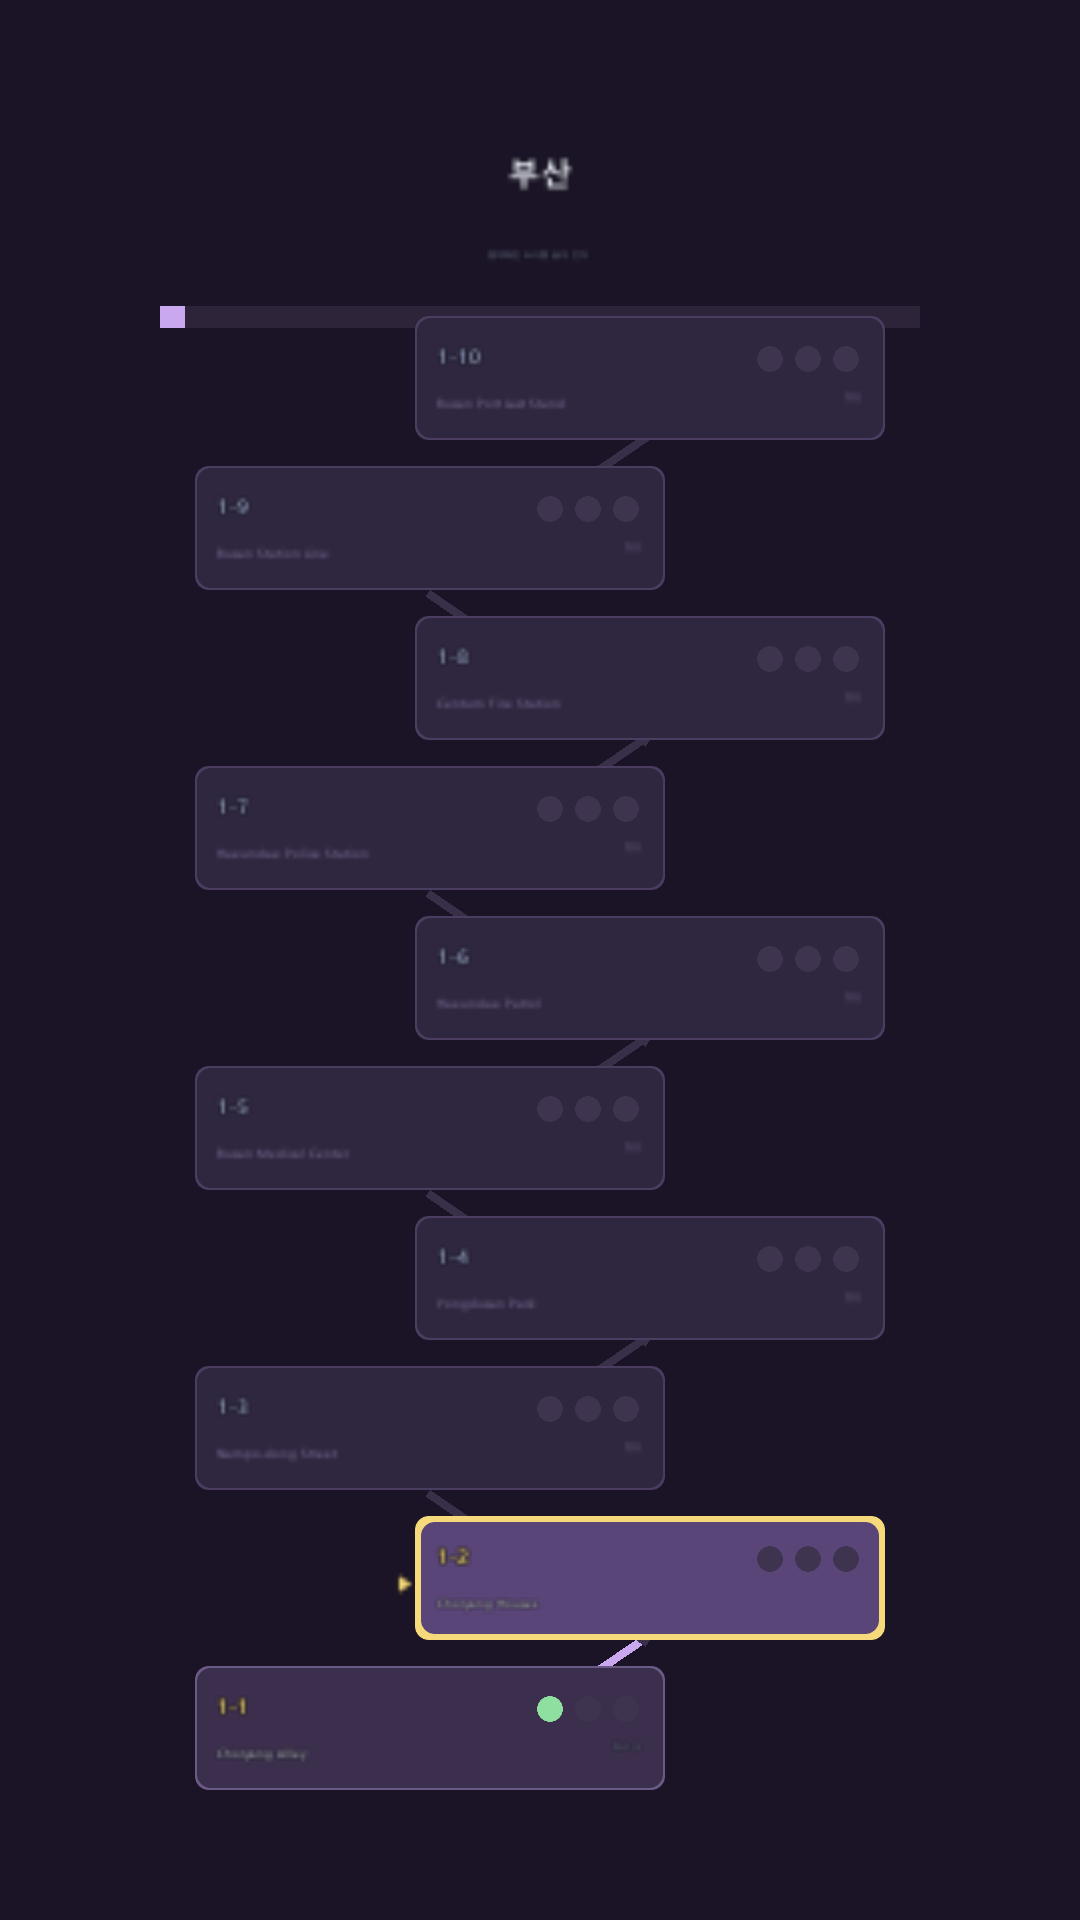
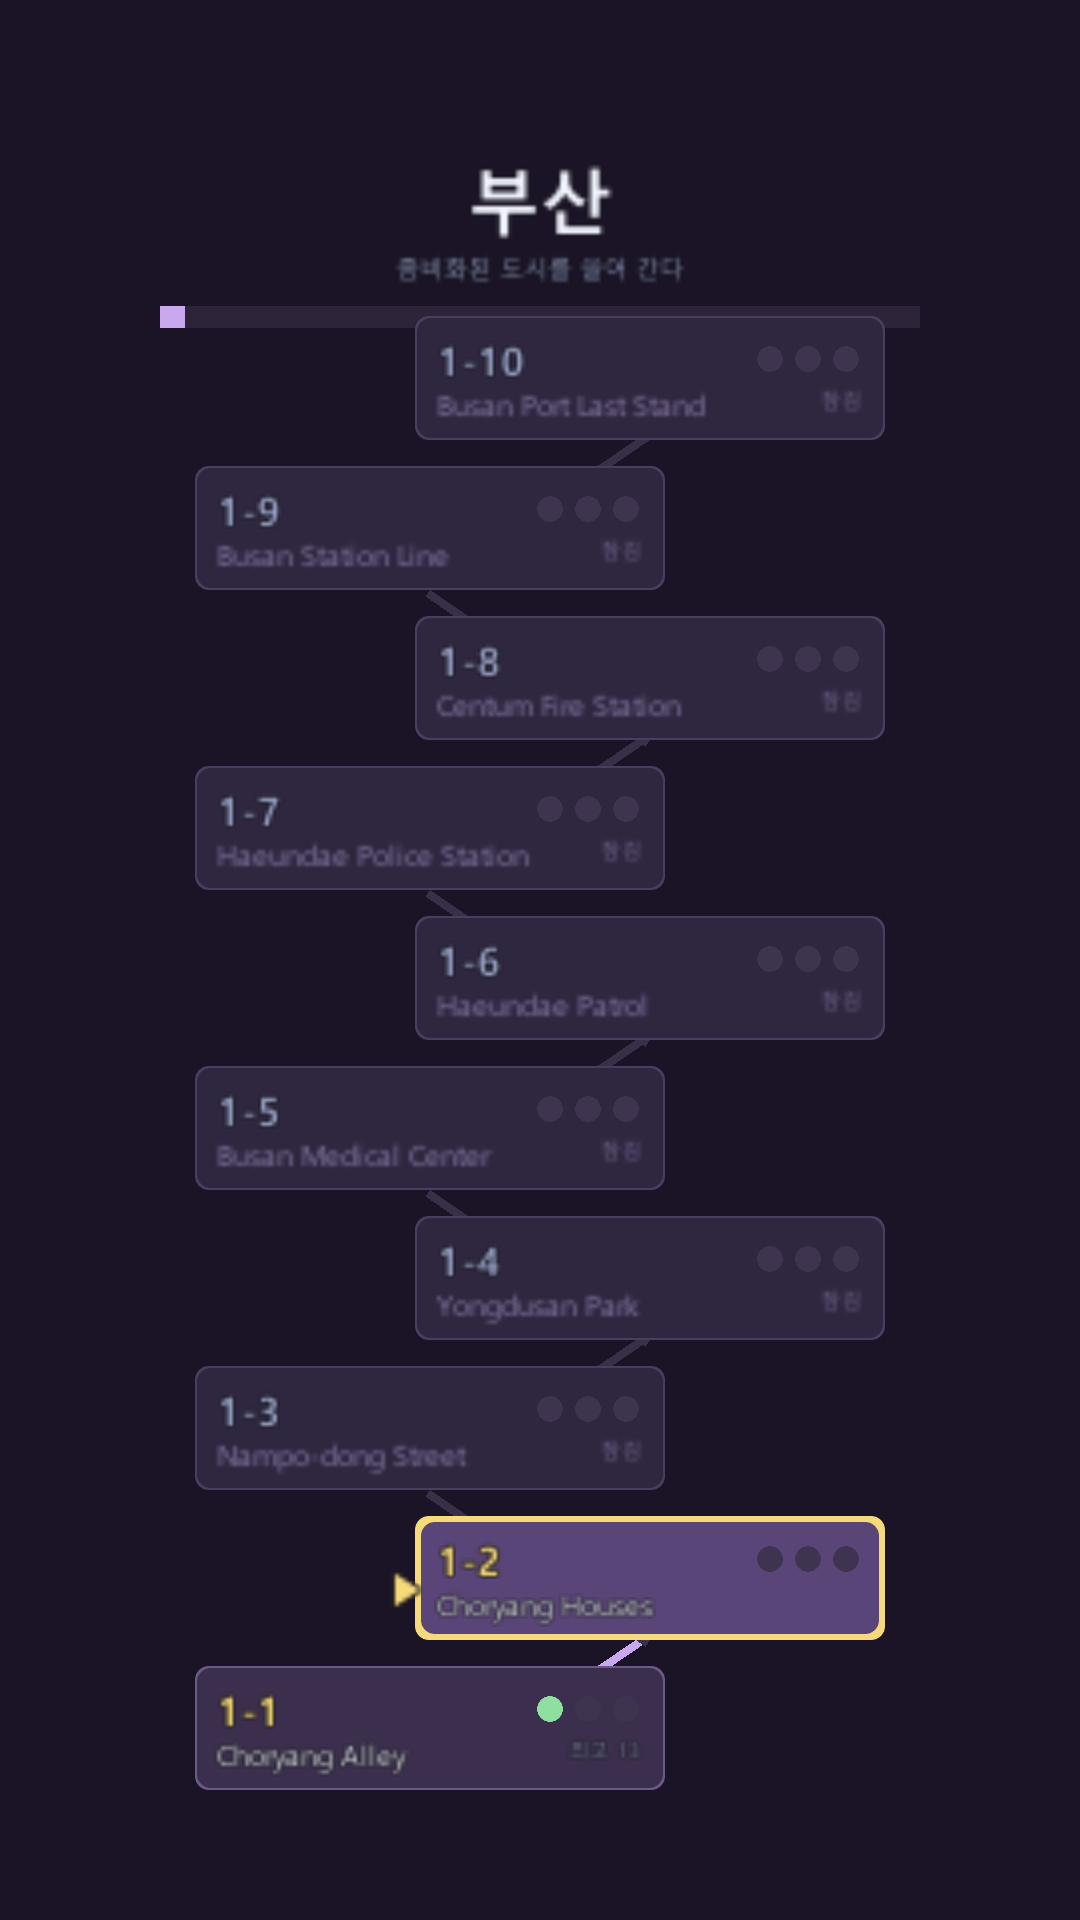
fix(view): the road was white because the colour never reached it
First look at the gameplay screen: the road, gates, wall, zones and
divider were all blank white, washing out the whole frame. The material
was built on `Mobile/Diffuse`, which has no `_Color` property, so
`material.color = c` did nothing at all. Switched to a shader that has
one, and the code now says so loudly if a future shader does not.

With colours applied the road came out pale cyan instead of olive,
because ambient lighting defaults to sampling a skybox. The scene is
built in code and has no sky, so the engine's default one was lighting
and tinting everything. Ambient is flat and explicit now, which is what a
code-built scene needs if the colour given is to be the colour seen.

Gates behind the crowd stay drawn, and as the camera passes them their
world-space labels swell and collide — two of them covered the bottom of
the frame. They hide once passed; the only control in this game is the
next gate, so the ones behind are clutter either way.

The gameplay shot itself is new, and it goes through the 3D camera with
the UI excluded rather than the canvas path the meta screens use.

Also adds the gameplay screen to the set, so what exists now is: world
map, stage card, result won, and the game. All five come out of one run.

diff --git a/Assets/Tests/PlayMode/MetaShotTests.cs b/Assets/Tests/PlayMode/MetaShotTests.cs
@@ -2,6 +2,7 @@ using System.Collections;
 using System.IO;
 using CrowdRunner;
 using CrowdRunner.Core;
+using CrowdRunner.Game;
 using CrowdRunner.Meta;
 using NUnit.Framework;
 using UnityEngine;
@@ -129,6 +130,70 @@ namespace CrowdRunner.Tests
             Debug.Log("[CR-TEST] 결과 화면 화소 — 이김 " + won.ToString("F1") + "% · 짐 " + lost.ToString("F1") + "%");
             Assert.Greater(won, 3f, "이긴 결과 화면이 거의 비었다");
             Assert.Greater(lost, 3f, "진 결과 화면이 거의 비었다");
+        }
+
+        /// <summary>
+        /// **게임 화면을 찍는다** — 군중·길·게이트·적. UI 가 아니라 3D 카메라를 뜬다.
+        ///
+        /// 메타 화면과 경로가 다르다: 오버레이 캔버스를 카메라에 물릴 필요가 없고, 대신 **UI 를
+        /// 빼야** 한다 (게임이 어떻게 생겼는지 보려는 그림이라 HUD 가 덮으면 안 된다).
+        ///
+        /// 판을 조금 돌린 뒤에 찍는다 — 0 프레임에서는 군중이 한 점에 모여 있고 게이트가 멀어서
+        /// **아무것도 안 보인다.** 첫 게이트를 지난 뒤가 이 장르의 그림이다.
+        /// </summary>
+        [UnityTest, Timeout(300000)]
+        public IEnumerator Shoots_The_Gameplay_Screen()
+        {
+            var lv = LevelCatalog.Find("1-3");
+            Assert.IsNotNull(lv);
+            flow.StartLevel(lv);
+            float prev = Time.timeScale;
+            Time.timeScale = 100f;
+            var runner = GameBoot.Runner;
+            // 첫 게이트를 지나 군단이 커진 뒤 — 그때가 이 게임이 어떻게 생겼는지 보이는 자리다
+            for (int i = 0; i < 30000 && runner.Sim != null && runner.Sim.Units <= lv.initialUnits; i++)
+                yield return null;
+            for (int i = 0; i < 60; i++) yield return null;
+            Time.timeScale = prev;
+
+            float share = ShotWorld("game", runner);
+            Debug.Log($"[CR-TEST] 게임 화면: 병력 {runner.Sim.Units} z {runner.Sim.Z:F0} · 그려진 화소 {share:F1}%");
+            Assert.Greater(runner.Sim.Units, lv.initialUnits, "게이트를 지나지 않았다 — 군단이 안 커졌다");
+            Assert.Greater(share, 3f, "게임 화면이 거의 비었다 — 군중이 안 그려지는지 보라");
+        }
+
+        /// <summary>3D 카메라를 뜬다. UI 는 뺀다 (HUD 가 덮으면 게임이 안 보인다)</summary>
+        float ShotWorld(string name, LevelRunner runner)
+        {
+            var cam = Camera.main;
+            Assert.IsNotNull(cam, "카메라가 없다 — LevelView 가 안 섰다");
+            var rt = new RenderTexture(W, H, 24, RenderTextureFormat.ARGB32);
+            var prevTarget = cam.targetTexture;
+            int prevMask = cam.cullingMask;
+            cam.targetTexture = rt;
+            cam.cullingMask = ~(1 << 5);        // UI 빼고 전부
+            cam.Render();
+
+            var tex = new Texture2D(W, H, TextureFormat.RGB24, false);
+            var prevRt = RenderTexture.active;
+            RenderTexture.active = rt;
+            tex.ReadPixels(new Rect(0, 0, W, H), 0, 0);
+            tex.Apply(false);
+            RenderTexture.active = prevRt;
+
+            var px = tex.GetPixels32();
+            var bg = (Color32)cam.backgroundColor;
+            int lit = 0;
+            for (int i = 0; i < px.Length; i += 7)
+                if (Mathf.Abs(px[i].r - bg.r) + Mathf.Abs(px[i].g - bg.g) + Mathf.Abs(px[i].b - bg.b) > 24) lit++;
+            File.WriteAllBytes(Path.Combine(Dir, name + ".png"), tex.EncodeToPNG());
+
+            cam.targetTexture = prevTarget;
+            cam.cullingMask = prevMask;
+            Object.DestroyImmediate(tex);
+            rt.Release();
+            Object.DestroyImmediate(rt);
+            return lit / (px.Length / 7f) * 100f;
         }
 
         IEnumerator PlayUntilResult(string code, SimState want)

diff --git a/Assets/_Game/Scripts/Game/LevelView.cs b/Assets/_Game/Scripts/Game/LevelView.cs
@@ -74,9 +74,16 @@ namespace CrowdRunner.View
             cam.clearFlags = CameraClearFlags.SolidColor;
             cam.backgroundColor = new Color(0.62f, 0.72f, 0.80f);
 
+            // **주변광을 못 박는다.** 기본값은 하늘(skybox) 기반인데 이 장면에는 하늘이 없어
+            // 엔진 기본 하늘을 샘플링한다 — 그 결과 **모든 것이 밝아지고 하늘색으로 물든다.**
+            // 첫 촬영에서 길(올리브 0.46)이 **흰색에 가까운 하늘빛**으로 나온 것이 그것이다.
+            // 코드로 세우는 장면은 하늘이 없으므로 평평한 주변광이 맞다 — 그래야 준 색이 그 색으로 나온다
+            RenderSettings.ambientMode = UnityEngine.Rendering.AmbientMode.Flat;
+            RenderSettings.ambientLight = new Color(0.22f, 0.23f, 0.26f);
+
             var li = new GameObject("Sun").AddComponent<Light>();
             li.type = LightType.Directional;
-            li.intensity = 1.05f;
+            li.intensity = 0.85f;
             li.shadows = LightShadows.None;   // 400 개체의 그림자는 드로우를 두 배로 만든다 (§6b)
             li.transform.rotation = Quaternion.Euler(52f, -28f, 0f);
 
@@ -162,6 +169,16 @@ namespace CrowdRunner.View
 
             fx.Tick(Time.deltaTime);
             fx.Draw();
+
+            // **지나친 게이트를 가린다.** 안 가리면 뒤에 남은 게이트가 카메라에 가까워져
+            // 글자가 거대해지고 서로 겹친다 — 첫 촬영에서 `×135` 와 `+30` 이 화면 아래를 덮었다.
+            // 지나친 선택지를 계속 보여 줄 이유도 없다: 이 게임의 조작은 **다음** 게이트 하나다
+            for (int i = 0; i < gates.Length; i++)
+            {
+                if (gates[i] == null) continue;
+                bool ahead = gates[i].position.z > sim.Z - 2f;
+                if (gates[i].gameObject.activeSelf != ahead) gates[i].gameObject.SetActive(ahead);
+            }
 
             countLabel.text = sim.Units.ToString();
             countLabel.transform.position = new Vector3(sim.X, 3.4f, sim.Z + 1.5f);
@@ -253,8 +270,17 @@ namespace CrowdRunner.View
             var go = GameObject.CreatePrimitive(PrimitiveType.Cube);
             go.name = name;
             Destroy(go.GetComponent<Collider>());   // 물리 엔진을 안 쓴다 (`DESIGN.md` §2)
-            var sh = Shader.Find("Mobile/Diffuse") ?? Shader.Find("Legacy Shaders/Diffuse") ?? Shader.Find("Standard");
-            go.GetComponent<Renderer>().sharedMaterial = new Material(sh) { color = c };
+            // **`Mobile/Diffuse` 에는 `_Color` 가 없다.** 그 셰이더는 `_MainTex` 만 받으므로
+            // `material.color = c` 가 **아무 일도 안 하고**, 길·게이트·벽·지역·칸막이가 전부
+            // **새하얗게** 나왔다 (첫 게임 화면 촬영에서 길이 화면을 하얗게 덮었다).
+            // 색을 주는 셰이더를 고르고, **실제로 먹었는지 확인**한다 — 조용히 흰색으로
+            // 떨어지면 "색을 줬는데 왜 하얗지" 가 된다
+            var sh = Shader.Find("Legacy Shaders/Diffuse") ?? Shader.Find("Standard");
+            var m = new Material(sh);
+            if (!m.HasProperty("_Color"))
+                Debug.LogError("[CR] 셰이더 '" + sh.name + "' 에 _Color 가 없다 — 모든 네모가 하얗게 나온다");
+            m.color = c;
+            go.GetComponent<Renderer>().sharedMaterial = m;
             return go.transform;
         }
 
